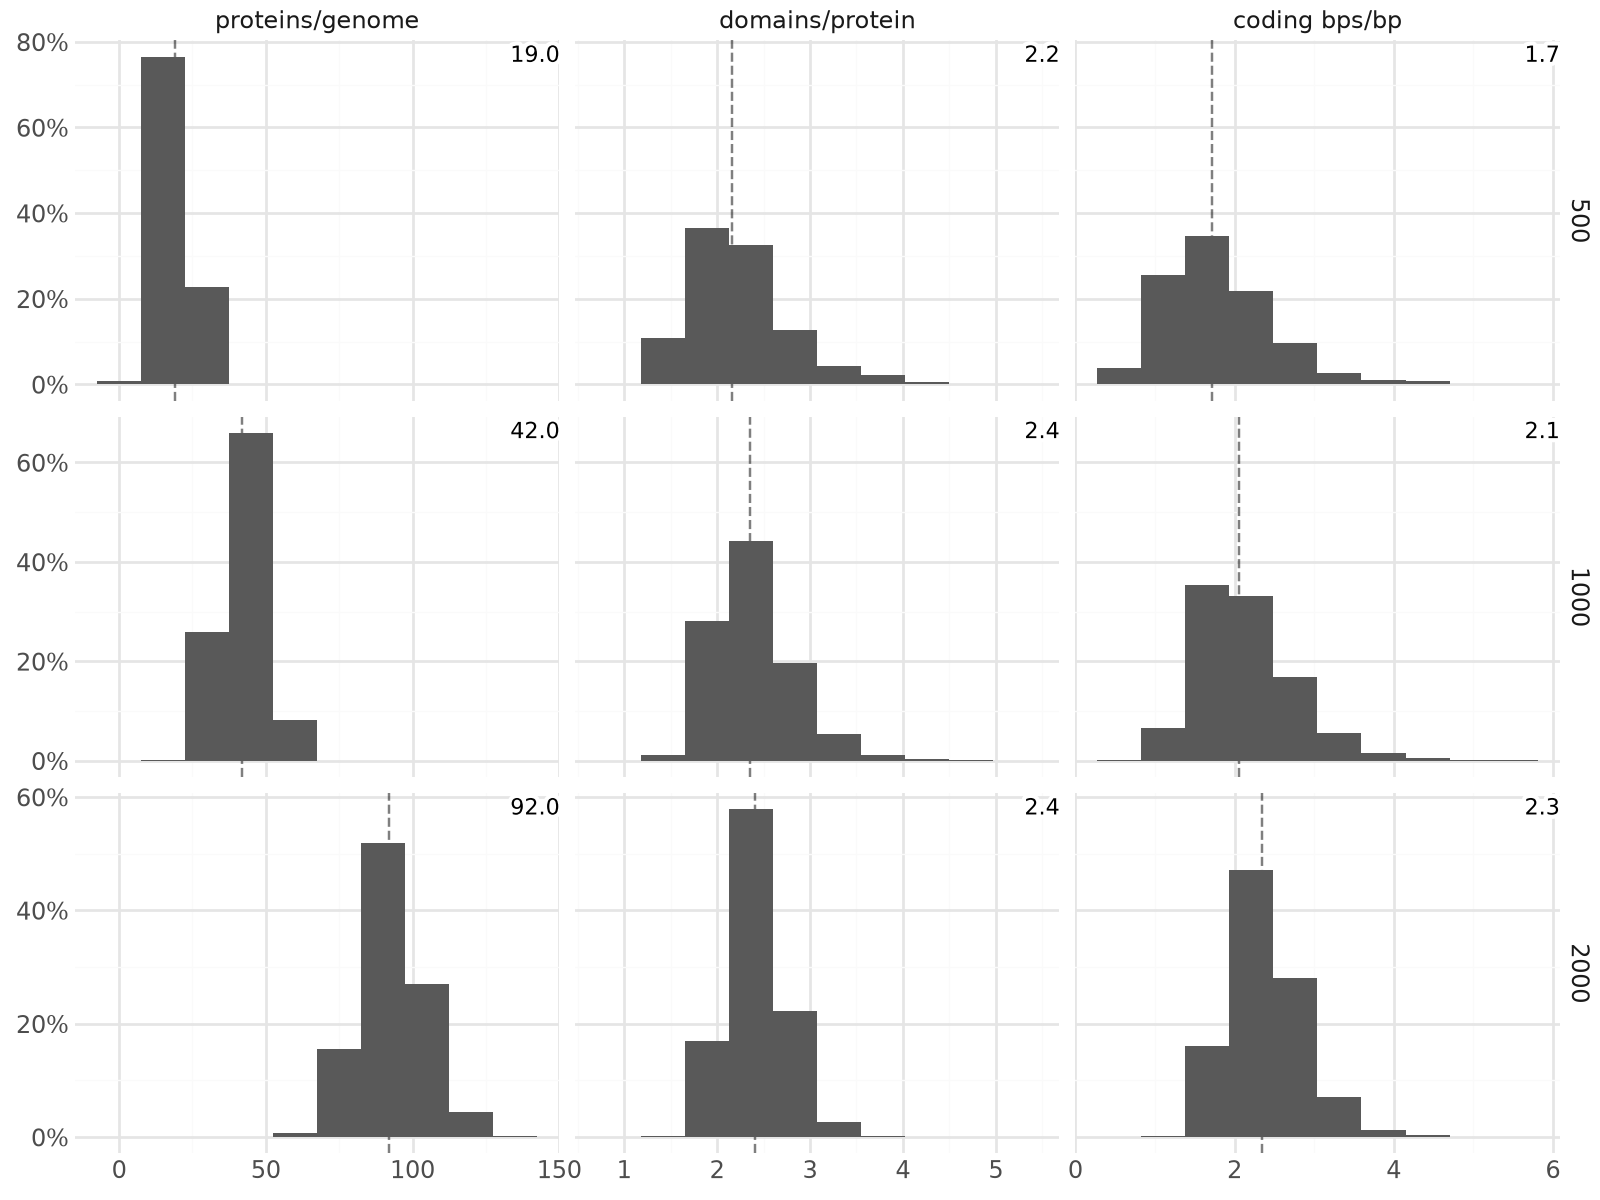
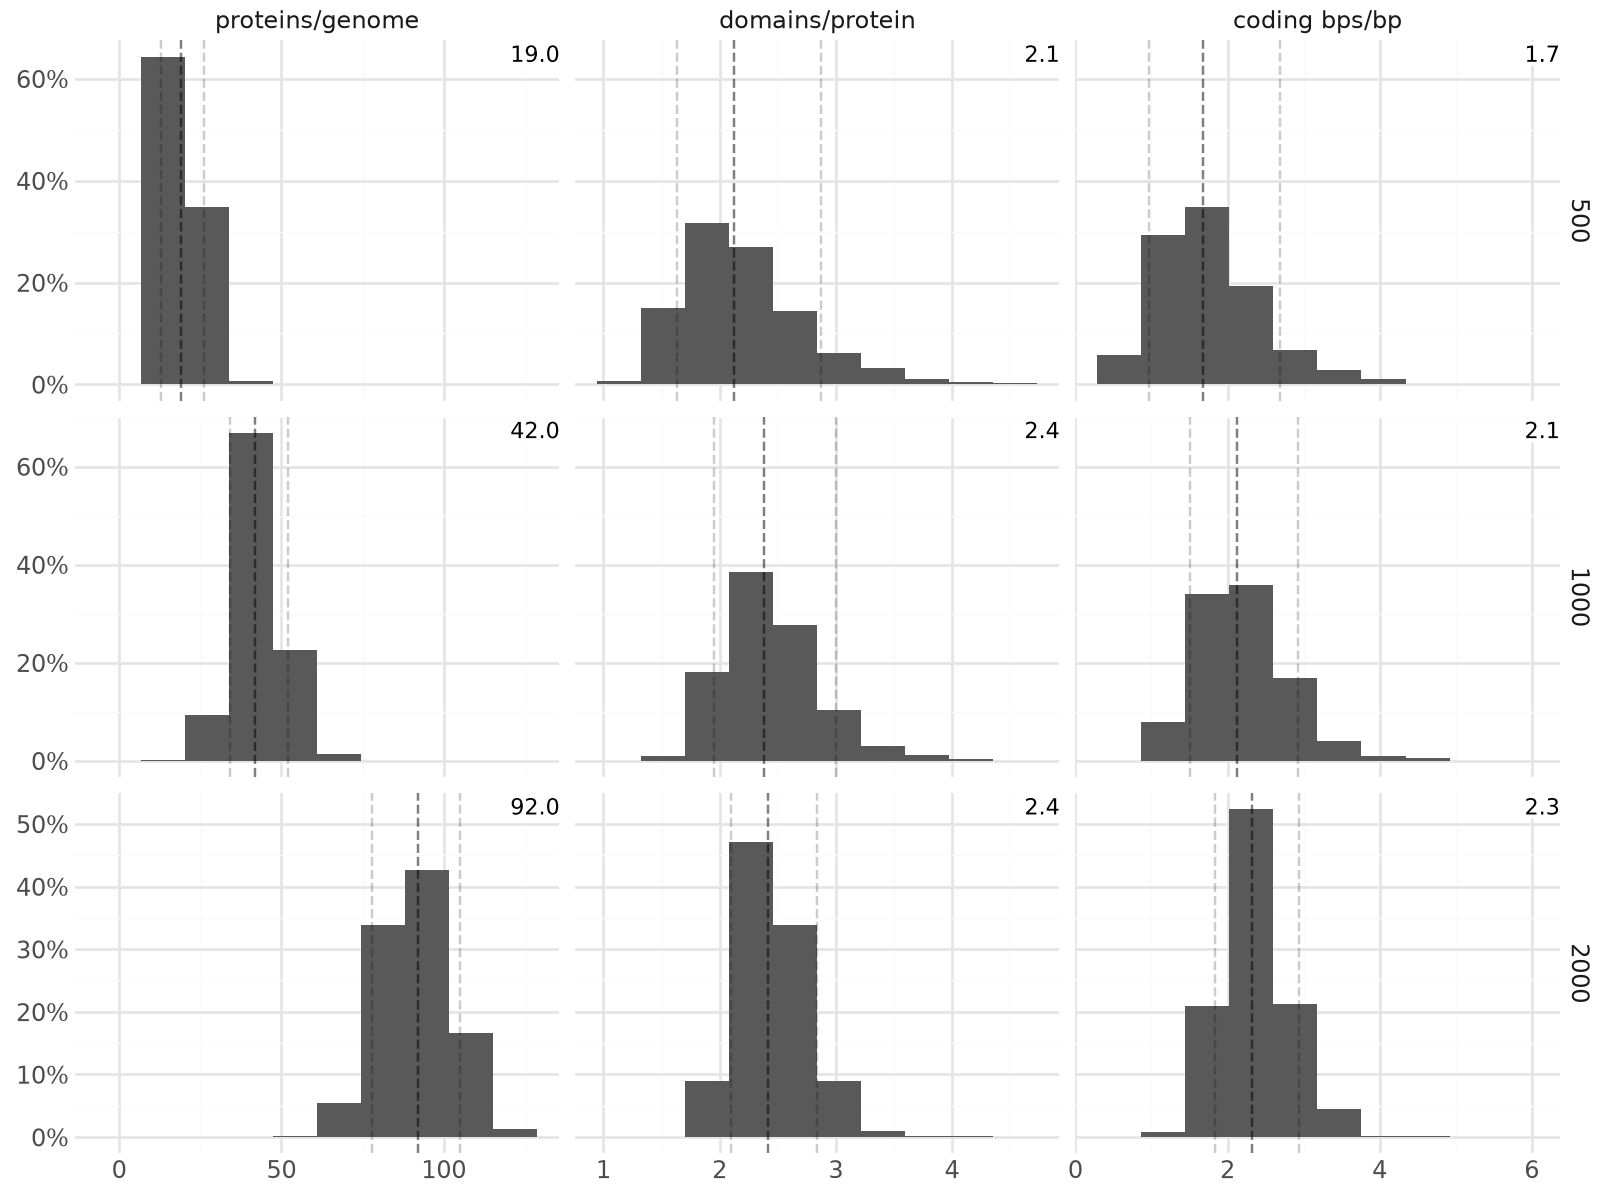
parameter distributions

diff --git a/docs/plots/param_distros.py b/docs/plots/param_distros.py
@@ -1,14 +1,23 @@
 from pathlib import Path
 
 import magicsoup as ms
+import matplotlib.patheffects as path_effects
+import numpy as np
 import pandas as pd
 from magicsoup.examples.wood_ljungdahl import CHEMISTRY
+from mizani.formatters import percent_format
 from plotnine import *  # pylint: disable=W0614,W0401
 
+PE_WHITE_OUTLINE = [
+    path_effects.Stroke(linewidth=3, foreground="white"),
+    path_effects.Normal(),
+]
 
-def _plot_distributions():
+
+def _plot_distributions_continuous():
     world = ms.World(chemistry=CHEMISTRY)
-    genomes = [ms.random_genome() for _ in range(1000)]
+    N = world.culture.map_size
+    genomes = [ms.random_genome() for _ in range(N)]
     idxs = world.spawn_cells(genomes=genomes)
     is_prot = (world.cells.N_e[idxs] != 0).any(dim=2)
     k_e = world.cells.k_b[idxs] / world.cells.k_f[idxs]
@@ -20,23 +29,66 @@ def _plot_distributions():
             "Km [mM]": world.cells.k_f[idxs][is_prot].flatten(),
         }
     )
-    stats = df.describe()
-    med = stats.loc[["50%"]]
-    std = stats.loc[["25%", "75%"]]
+    stats = df.describe(percentiles=[0.1, 0.5, 0.9])
+    med = stats.loc[["50%"]].melt()
+    std = stats.loc[["10%", "90%"]].melt()
 
     return (
         ggplot(df.melt())
-        + geom_hline(aes(yintercept="value"), med.melt(), linetype="dashed", alpha=0.5)
-        + geom_hline(aes(yintercept="value"), std.melt(), linetype="dashed", alpha=0.2)
-        + geom_violin(aes(y="value", color="variable", fill="variable"))
+        + geom_histogram(aes(x="value", y=after_stat("width*density")), bins=10)
+        + geom_vline(aes(xintercept="value"), med, linetype="dashed", alpha=0.5)
+        + geom_vline(aes(xintercept="value"), std, linetype="dashed", alpha=0.2)
+        + geom_text(
+            aes(x=np.inf, y=np.inf, label="value"),
+            ha="right",
+            va="top",
+            data=med,
+            size=8,
+            format_string="{:.2e}",
+            path_effects=PE_WHITE_OUTLINE,
+        )
         + facet_wrap("variable", ncol=1, scales="free")
-        + scale_y_continuous(trans="log10")
-        + coord_flip()
+        + scale_y_continuous(labels=percent_format())
+        + scale_x_continuous(trans="log10")
         + theme(axis_title=element_blank(), legend_position="none")
-        + theme(figure_size=(7, 4))
-    ), "parameter-distributions"
+        + theme(figure_size=(7, 6))
+    ), "continuous-parameter-distributions"
+
+
+def _plot_distributions_discrete():
+    world = ms.World(chemistry=CHEMISTRY)
+    N = world.culture.map_size
+    genomes = [ms.random_genome() for _ in range(N**2)]
+    idxs = world.spawn_cells(genomes=genomes)
+    is_prot = (world.cells.N_e[idxs] != 0).any(dim=2)
+    N_e = world.cells.N_b[idxs][is_prot] - world.cells.N_f[idxs][is_prot]
+    N_e = N_e[N_e != 0].flatten()
+    H = world.cells.N_h[idxs][is_prot]
+    H = H[H != 0].flatten()
+
+    df = pd.DataFrame(
+        {
+            "value": N_e.tolist() + H.tolist(),
+            "variable": ["Stoichiometric number"] * N_e.numel()
+            + ["Hill coefficient"] * H.numel(),
+        }
+    )
+    df["variable"] = pd.Categorical(
+        df["variable"], categories=df["variable"].unique(), ordered=True
+    )
+
+    return (
+        ggplot(df)
+        + geom_bar(aes(x="value", y=after_stat("count/sum(count)")))
+        + facet_wrap("variable", ncol=1, scales="free")
+        + scale_y_continuous(labels=percent_format())
+        + theme(axis_title=element_blank(), legend_position="none")
+        + theme(figure_size=(6, 3))
+    ), "discrete-parameter-distributions"
 
 
 def create_plots(imgs_dir: Path):
-    g, name = _plot_distributions()
+    g, name = _plot_distributions_continuous()
+    g.save(imgs_dir / f"{name}.png", dpi=200, transparent=True)
+    g, name = _plot_distributions_discrete()
     g.save(imgs_dir / f"{name}.png", dpi=200, transparent=True)

diff --git a/docs/plots/genomes.py b/docs/plots/genomes.py
@@ -32,7 +32,7 @@ def _record_proteome_stats(
             )
 
 
-def _plot(df: pd.DataFrame, by: str, facet: str) -> ggplot:
+def _plot(df: pd.DataFrame, by: str) -> ggplot:
     df["v"] = pd.Categorical(
         df["v"],
         categories=["proteins/genome", "domains/protein", "coding bps/bp"],
@@ -40,10 +40,16 @@ def _plot(df: pd.DataFrame, by: str, facet: str) -> ggplot:
     )
     avgs = df.groupby([by, "v"])["n"].median().reset_index()
     avgs["l"] = [f"{d:.1f}" for d in avgs["n"]]
+    q01 = df.groupby([by, "v"])["n"].quantile(0.1).reset_index()
+    q01["l"] = [f"{d:.1f}" for d in q01["n"]]
+    q09 = df.groupby([by, "v"])["n"].quantile(0.9).reset_index()
+    q09["l"] = [f"{d:.1f}" for d in q09["n"]]
     return (
         ggplot(df)
-        + geom_vline(aes(xintercept="n"), data=avgs, linetype="dashed", alpha=0.5)
         + geom_histogram(aes(x="n", y=after_stat("width*density")), bins=10)
+        + geom_vline(aes(xintercept="n"), data=avgs, linetype="dashed", alpha=0.5)
+        + geom_vline(aes(xintercept="n"), data=q09, linetype="dashed", alpha=0.2)
+        + geom_vline(aes(xintercept="n"), data=q01, linetype="dashed", alpha=0.2)
         + geom_text(
             aes(x=np.inf, y=np.inf, label="l"),
             ha="right",
@@ -53,7 +59,7 @@ def _plot(df: pd.DataFrame, by: str, facet: str) -> ggplot:
             path_effects=PE_WHITE_OUTLINE,
         )
         + scale_y_continuous(labels=percent_format())
-        + facet_grid(facet, scales="free")
+        + facet_grid(f"{by} ~ v", scales="free")
         + theme(
             figure_size=(8, 6),
             axis_title_y=element_blank(),
@@ -77,7 +83,7 @@ def _plot_genome_sizes(ncells: int):
         )
 
     df = pd.DataFrame.from_records(records)
-    plot = _plot(df=df, by="size", facet="size ~ v")
+    plot = _plot(df=df, by="size")
     return plot, "different_genome_sizes"
 
 
@@ -96,7 +102,7 @@ def _plot_domain_probabilities(ncells: int, size: int):
         )
 
     df = pd.DataFrame.from_records(records)
-    plot = _plot(df=df, by="prob", facet="prob ~ v")
+    plot = _plot(df=df, by="prob")
     return plot, "different_domain_probabilities"
 
 
@@ -123,7 +129,7 @@ def _plot_start_stop_codons(ncells: int, size: int):
         )
 
     df = pd.DataFrame.from_records(records)
-    plot = _plot(df=df, by="start-stop", facet="start-stop ~ v")
+    plot = _plot(df=df, by="start-stop")
     return plot, "different_start_stop_codons"
 
 

diff --git a/tests/test_world.py b/tests/test_world.py
@@ -768,3 +768,6 @@ def test_saving_loading_obj(tmp_path: Path) -> None:
 #       and +/- 100 STDEV, values <1e-10 or >1e10 should be virtually impossible
 
 # TODO: test that checks that Vmax, Km values are in proper range (see proteomics)
+
+# TODO: Hill coefficients are on average 1.5 in Ecoli
+#       >3 is extremely rare

diff --git a/docs/figures.md b/docs/figures.md
@@ -21,7 +21,8 @@ _**1.1. Genome compositions at different genome sizes.**
 1000 random genomes of lengths 500, 1000, or 2000 each were generated, transcribed, and translated.
 For every cell the number proteins per genome, domains per protein, and coding base pairs per base pair were recorded.
 Coding base pairs are base pairs which are part of at least 1 domain.
-Dashed lines with numbers describe medians.
+Heavy dashed lines and numbers describe medians.
+Light dashed lines describe 10% and 90% percentiles.
 There were 3 start and 3 stop codons.
 Each domain type appeared with a frequency of 5% in all 2-codon tuples._
 
@@ -33,7 +34,8 @@ _**1.2. Genome compositions at different domain probabilities.**
 1000 random genomes of length 1000 with 2-codon domain type frequencies 2%, 5%, or 10% each were generated, transcribed, and translated.
 For every cell the number proteins per genome, domains per protein, and coding base pairs per base pair were recorded.
 Coding base pairs are base pairs which are part of at least 1 domain.
-Dashed lines with numbers describe medians.
+Heavy dashed lines and numbers describe medians.
+Light dashed lines describe 10% and 90% percentiles.
 There were 3 start and 3 stop codons._
 
 <br/>
@@ -44,7 +46,8 @@ _**1.3. Genome compositions at different start stop codon combinations.**
 1000 random genomes of length 1000 with combinations of 1 to 3 start and 1 to 3 stop codons each were generated, transcribed, and translated.
 For every cell the number proteins per genome, domains per protein, and coding base pairs per base pair were recorded.
 Coding base pairs are base pairs which are part of at least 1 domain.
-Dashed lines with numbers describe medians.
+Heavy dashed lines and numbers describe medians.
+Light dashed lines describe 10% and 90% percentiles.
 Facetting labels on the right describe first the number of start codons, second the number of stop codons.
 Each domain type appeared with a frequency of 5% in all 2-codon tuples._
 
@@ -148,13 +151,24 @@ over the course of 10&nbsp;s._
 
 ## 5. Parameter Distributions
 
-![](./img/supporting/parameter-distributions.png)
+![](./img/supporting/continuous-parameter-distributions.png)
 
-_**5.1. Parameter Distributions.**
+_**5.1. Continuous Parameter Distributions.**
 Each row shows a snapshot of a parameter distribution of the proteins in a simulation with 1000 random cells with 1000 base pair long genomes each.
 The top rows shows the equilibrium constant ($K_E$) distribution.
 The middle row shows an equivalent of the Michaelis Menten constant ($K_M$) distribution in mM.
-The bottom row shows the maximum velocity ($v_{max}$) distribution in mM/s assuming constant protein concentration of 1&nbsp;µM._
+The bottom row shows the maximum velocity ($v_{max}$) distribution in mM/s assuming constant protein concentration of 1&nbsp;µM.
+Heavy dashed lines and top right numbers show medians, light dashed lines show 10% and 90% percentiles._
+
+<br/>
+
+
+![](./img/supporting/discrete-parameter-distributions.png)
+
+_**5.2. Discrete Parameter Distributions.**
+Each row shows a snapshot of a parameter distribution of the proteins in a simulation with 1000 random cells with 1000 base pair long genomes each.
+The top rows shows the distribution of stoichiometric numbers of the catalyzed reactions.
+The bottom row shows the distribution of Hill coefficients of allosteric domains._
 
 <br/>
 
